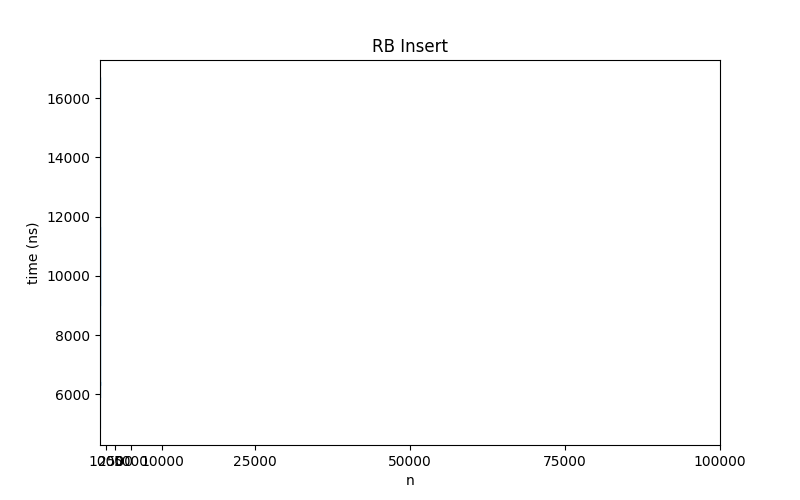
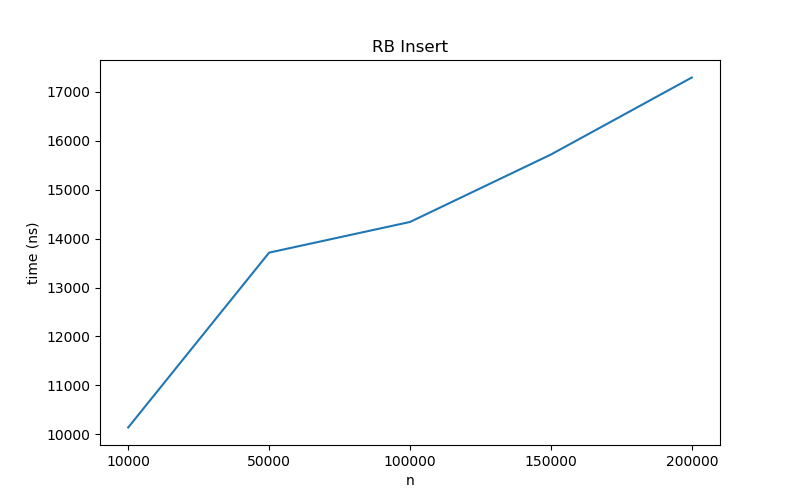
RB Insert Test

diff --git a/Python/OSTrees/os_trees.py b/Python/OSTrees/os_trees.py
@@ -422,8 +422,8 @@ if __name__ == "__main__":
     # creating a random list of unique integers
 
 
-    n = np.array([10000, 50000, 100000, 150000, 200000])#, 250000, 300000, 350000, 400000, 450000, 500000])
-    avg_times = 100
+    n = [10000, 50000, 100000, 150000, 200000]#, 250000, 300000, 350000, 400000, 450000, 500000]
+    avg_times = 20
 
 
     insert_time = []
@@ -458,8 +458,10 @@ if __name__ == "__main__":
     plt.xlabel('n')
     plt.ylabel('time (ns)')
     plt.title('RB Insert')
-    sns.lineplot(x=x, y=insert_time)
-    plt.xticks(n)
+    plt.xticks(x)
+    ax = sns.lineplot(x, insert_time)
+    ax.set_xticklabels(n)
+    # plt.set_xticklabels(n)
     plt.savefig('rb_insert.png')
     plt.show() 
 
